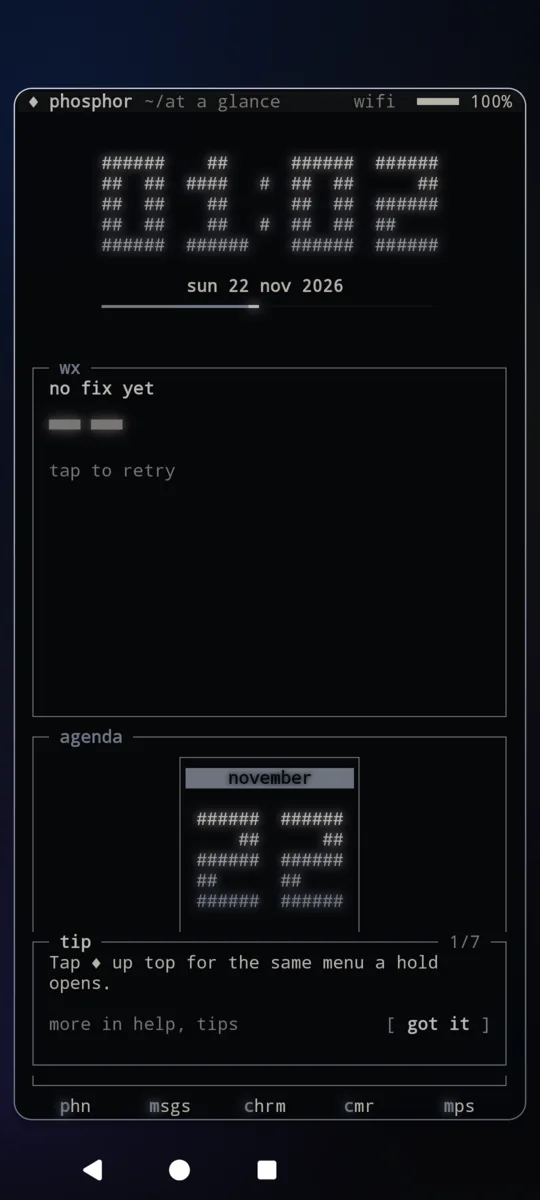
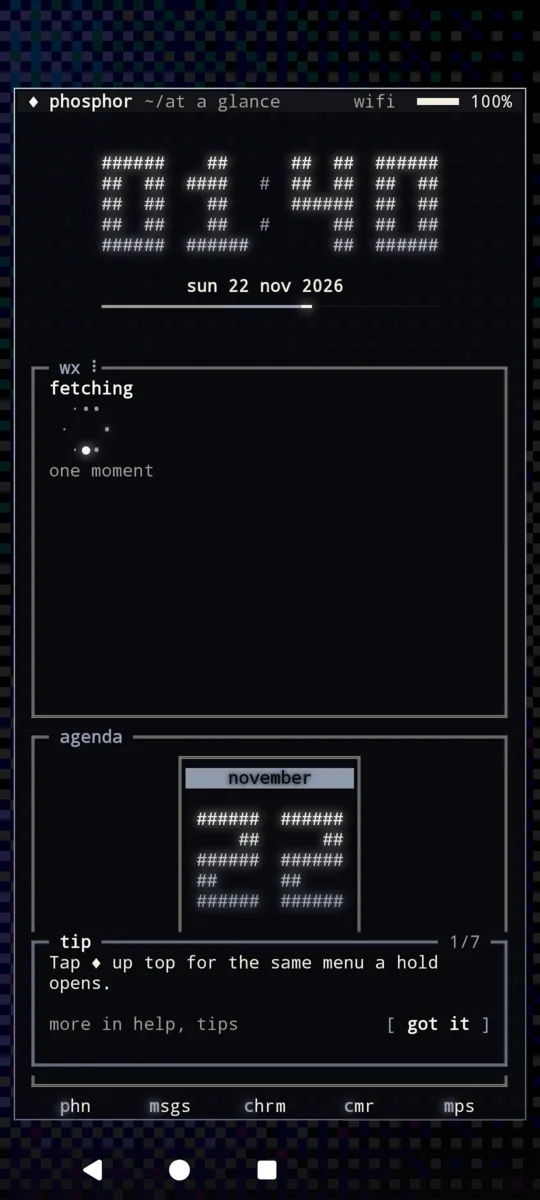
Mesh looks shots and text follow Phosphor 2.93: blocky ANSI art gradient round one square tube

diff --git a/docs/index.html b/docs/index.html
@@ -52,16 +52,16 @@
 <section class="box lit" id="looks" aria-labelledby="looks-h"><h2 class="tag" id="looks-h">twenty looks</h2><span class="meta">menu, looks</span>
 
 <p>Each preset is a whole look in one tap: theme, background, crt, weather style and day and night. Your pages, panels, text size and phone wallpaper stay as they are. <code>my own look</code> brings back the look you had before the first preset. Eleven are free; the nine built on a pro theme carry a pro tag.</p>
-<p>The first group, <code>mesh</code>, has 36 free looks, one family with Hyprtile. A drifting gradient wallpaper sits under one frosted panel that holds the terminal grid, floating with a small margin. Here are eight of them.</p>
+<p>The first group, <code>mesh</code>, has 36 free looks, one family with Hyprtile. A blocky dithered gradient, like ANSI art under scanlines, drifts round one square tube that holds the terminal grid, floating with a small margin. Here are eight of them.</p>
 <ul class="looks">
-  <li><figure><div class="phone"><img src="img/look-mesh-pastel-haze-s.webp" srcset="img/look-mesh-pastel-haze-s.webp 270w, img/look-mesh-pastel-haze.webp 540w" sizes="(min-width: 1700px) 240px, (min-width: 700px) 180px, 45vw" width="540" height="1200" loading="lazy" alt="The pastel haze mesh look: a drifting gradient wallpaper under one frosted panel holding the terminal grid."></div><figcaption><b>pastel haze</b>the site look</figcaption></figure></li>
-  <li><figure><div class="phone"><img src="img/look-mesh-porcelain-s.webp" srcset="img/look-mesh-porcelain-s.webp 270w, img/look-mesh-porcelain.webp 540w" sizes="(min-width: 1700px) 240px, (min-width: 700px) 180px, 45vw" width="540" height="1200" loading="lazy" alt="The porcelain mesh look: a drifting gradient wallpaper under one frosted panel holding the terminal grid."></div><figcaption><b>porcelain</b>full white, pearl and gold</figcaption></figure></li>
-  <li><figure><div class="phone"><img src="img/look-mesh-onyx-gold-s.webp" srcset="img/look-mesh-onyx-gold-s.webp 270w, img/look-mesh-onyx-gold.webp 540w" sizes="(min-width: 1700px) 240px, (min-width: 700px) 180px, 45vw" width="540" height="1200" loading="lazy" alt="The onyx gold mesh look: a drifting gradient wallpaper under one frosted panel holding the terminal grid."></div><figcaption><b>onyx gold</b>full black, old gold</figcaption></figure></li>
-  <li><figure><div class="phone"><img src="img/look-mesh-midnight-bloom-s.webp" srcset="img/look-mesh-midnight-bloom-s.webp 270w, img/look-mesh-midnight-bloom.webp 540w" sizes="(min-width: 1700px) 240px, (min-width: 700px) 180px, 45vw" width="540" height="1200" loading="lazy" alt="The midnight bloom mesh look: a drifting gradient wallpaper under one frosted panel holding the terminal grid."></div><figcaption><b>midnight bloom</b>violet and pink</figcaption></figure></li>
-  <li><figure><div class="phone"><img src="img/look-mesh-neon-tokyo-s.webp" srcset="img/look-mesh-neon-tokyo-s.webp 270w, img/look-mesh-neon-tokyo.webp 540w" sizes="(min-width: 1700px) 240px, (min-width: 700px) 180px, 45vw" width="540" height="1200" loading="lazy" alt="The neon tokyo mesh look: a drifting gradient wallpaper under one frosted panel holding the terminal grid."></div><figcaption><b>neon tokyo</b>city neon</figcaption></figure></li>
-  <li><figure><div class="phone"><img src="img/look-mesh-mint-frost-s.webp" srcset="img/look-mesh-mint-frost-s.webp 270w, img/look-mesh-mint-frost.webp 540w" sizes="(min-width: 1700px) 240px, (min-width: 700px) 180px, 45vw" width="540" height="1200" loading="lazy" alt="The mint frost mesh look: a drifting gradient wallpaper under one frosted panel holding the terminal grid."></div><figcaption><b>mint frost</b>aurora green</figcaption></figure></li>
-  <li><figure><div class="phone"><img src="img/look-mesh-peach-fizz-s.webp" srcset="img/look-mesh-peach-fizz-s.webp 270w, img/look-mesh-peach-fizz.webp 540w" sizes="(min-width: 1700px) 240px, (min-width: 700px) 180px, 45vw" width="540" height="1200" loading="lazy" alt="The peach fizz mesh look: a drifting gradient wallpaper under one frosted panel holding the terminal grid."></div><figcaption><b>peach fizz</b>warm sunset</figcaption></figure></li>
-  <li><figure><div class="phone"><img src="img/look-mesh-obsidian-s.webp" srcset="img/look-mesh-obsidian-s.webp 270w, img/look-mesh-obsidian.webp 540w" sizes="(min-width: 1700px) 240px, (min-width: 700px) 180px, 45vw" width="540" height="1200" loading="lazy" alt="The obsidian mesh look: a drifting gradient wallpaper under one frosted panel holding the terminal grid."></div><figcaption><b>obsidian</b>full black, sapphire and silver</figcaption></figure></li>
+  <li><figure><div class="phone"><img src="img/look-mesh-pastel-haze-s.webp" srcset="img/look-mesh-pastel-haze-s.webp 270w, img/look-mesh-pastel-haze.webp 540w" sizes="(min-width: 1700px) 240px, (min-width: 700px) 180px, 45vw" width="540" height="1200" loading="lazy" alt="The pastel haze mesh look: blocky ANSI art gradient round one square terminal tube."></div><figcaption><b>pastel haze</b>the site look</figcaption></figure></li>
+  <li><figure><div class="phone"><img src="img/look-mesh-porcelain-s.webp" srcset="img/look-mesh-porcelain-s.webp 270w, img/look-mesh-porcelain.webp 540w" sizes="(min-width: 1700px) 240px, (min-width: 700px) 180px, 45vw" width="540" height="1200" loading="lazy" alt="The porcelain mesh look: blocky ANSI art gradient round one square terminal tube."></div><figcaption><b>porcelain</b>full white, pearl and gold</figcaption></figure></li>
+  <li><figure><div class="phone"><img src="img/look-mesh-onyx-gold-s.webp" srcset="img/look-mesh-onyx-gold-s.webp 270w, img/look-mesh-onyx-gold.webp 540w" sizes="(min-width: 1700px) 240px, (min-width: 700px) 180px, 45vw" width="540" height="1200" loading="lazy" alt="The onyx gold mesh look: blocky ANSI art gradient round one square terminal tube."></div><figcaption><b>onyx gold</b>full black, old gold</figcaption></figure></li>
+  <li><figure><div class="phone"><img src="img/look-mesh-midnight-bloom-s.webp" srcset="img/look-mesh-midnight-bloom-s.webp 270w, img/look-mesh-midnight-bloom.webp 540w" sizes="(min-width: 1700px) 240px, (min-width: 700px) 180px, 45vw" width="540" height="1200" loading="lazy" alt="The midnight bloom mesh look: blocky ANSI art gradient round one square terminal tube."></div><figcaption><b>midnight bloom</b>violet and pink</figcaption></figure></li>
+  <li><figure><div class="phone"><img src="img/look-mesh-neon-tokyo-s.webp" srcset="img/look-mesh-neon-tokyo-s.webp 270w, img/look-mesh-neon-tokyo.webp 540w" sizes="(min-width: 1700px) 240px, (min-width: 700px) 180px, 45vw" width="540" height="1200" loading="lazy" alt="The neon tokyo mesh look: blocky ANSI art gradient round one square terminal tube."></div><figcaption><b>neon tokyo</b>city neon</figcaption></figure></li>
+  <li><figure><div class="phone"><img src="img/look-mesh-mint-frost-s.webp" srcset="img/look-mesh-mint-frost-s.webp 270w, img/look-mesh-mint-frost.webp 540w" sizes="(min-width: 1700px) 240px, (min-width: 700px) 180px, 45vw" width="540" height="1200" loading="lazy" alt="The mint frost mesh look: blocky ANSI art gradient round one square terminal tube."></div><figcaption><b>mint frost</b>aurora green</figcaption></figure></li>
+  <li><figure><div class="phone"><img src="img/look-mesh-peach-fizz-s.webp" srcset="img/look-mesh-peach-fizz-s.webp 270w, img/look-mesh-peach-fizz.webp 540w" sizes="(min-width: 1700px) 240px, (min-width: 700px) 180px, 45vw" width="540" height="1200" loading="lazy" alt="The peach fizz mesh look: blocky ANSI art gradient round one square terminal tube."></div><figcaption><b>peach fizz</b>warm sunset</figcaption></figure></li>
+  <li><figure><div class="phone"><img src="img/look-mesh-obsidian-s.webp" srcset="img/look-mesh-obsidian-s.webp 270w, img/look-mesh-obsidian.webp 540w" sizes="(min-width: 1700px) 240px, (min-width: 700px) 180px, 45vw" width="540" height="1200" loading="lazy" alt="The obsidian mesh look: blocky ANSI art gradient round one square terminal tube."></div><figcaption><b>obsidian</b>full black, sapphire and silver</figcaption></figure></li>
 </ul>
 <p>The other presets:</p>
 <ul class="looks">
@@ -110,7 +110,7 @@
 <section class="box" id="new" aria-labelledby="new-h"><h2 class="tag" id="new-h">new since 1.67</h2>
 
 <ul class="term cols">
-  <li><a href="#looks"><b>36 mesh looks</b></a> (2.90): a drifting gradient wallpaper under one frosted panel that holds the terminal grid, in a new first group called mesh, as themes and as presets. All free, one family with Hyprtile.</li>
+  <li><a href="#looks"><b>36 mesh looks</b></a> (2.90): blocky ANSI art gradient round one square terminal tube that holds the terminal grid, in a new first group called mesh, as themes and as presets. All free, one family with Hyprtile.</li>
   <li><a href="guide.html#school"><b>school holidays</b></a>: the holidays panel shows the school breaks of your zone, from OpenHolidays for about 36 countries. School's out with the days left, or the next break with the school days to go. Add breaks of your own for any country.</li>
   <li><a href="guide.html#lockpanels"><b>your panels on the lock</b></a>: put 2 of your own panels on the lock screen, 3 on a tablet. Only panels with nothing private on them, and none needs a touch.</li>
   <li><a href="guide.html#statwall"><b>stat wallpapers</b></a>: battery, day, year, weather, steps (pro), holidays or moon as a big picture behind the lock, and a scene of the lock's own.</li>
